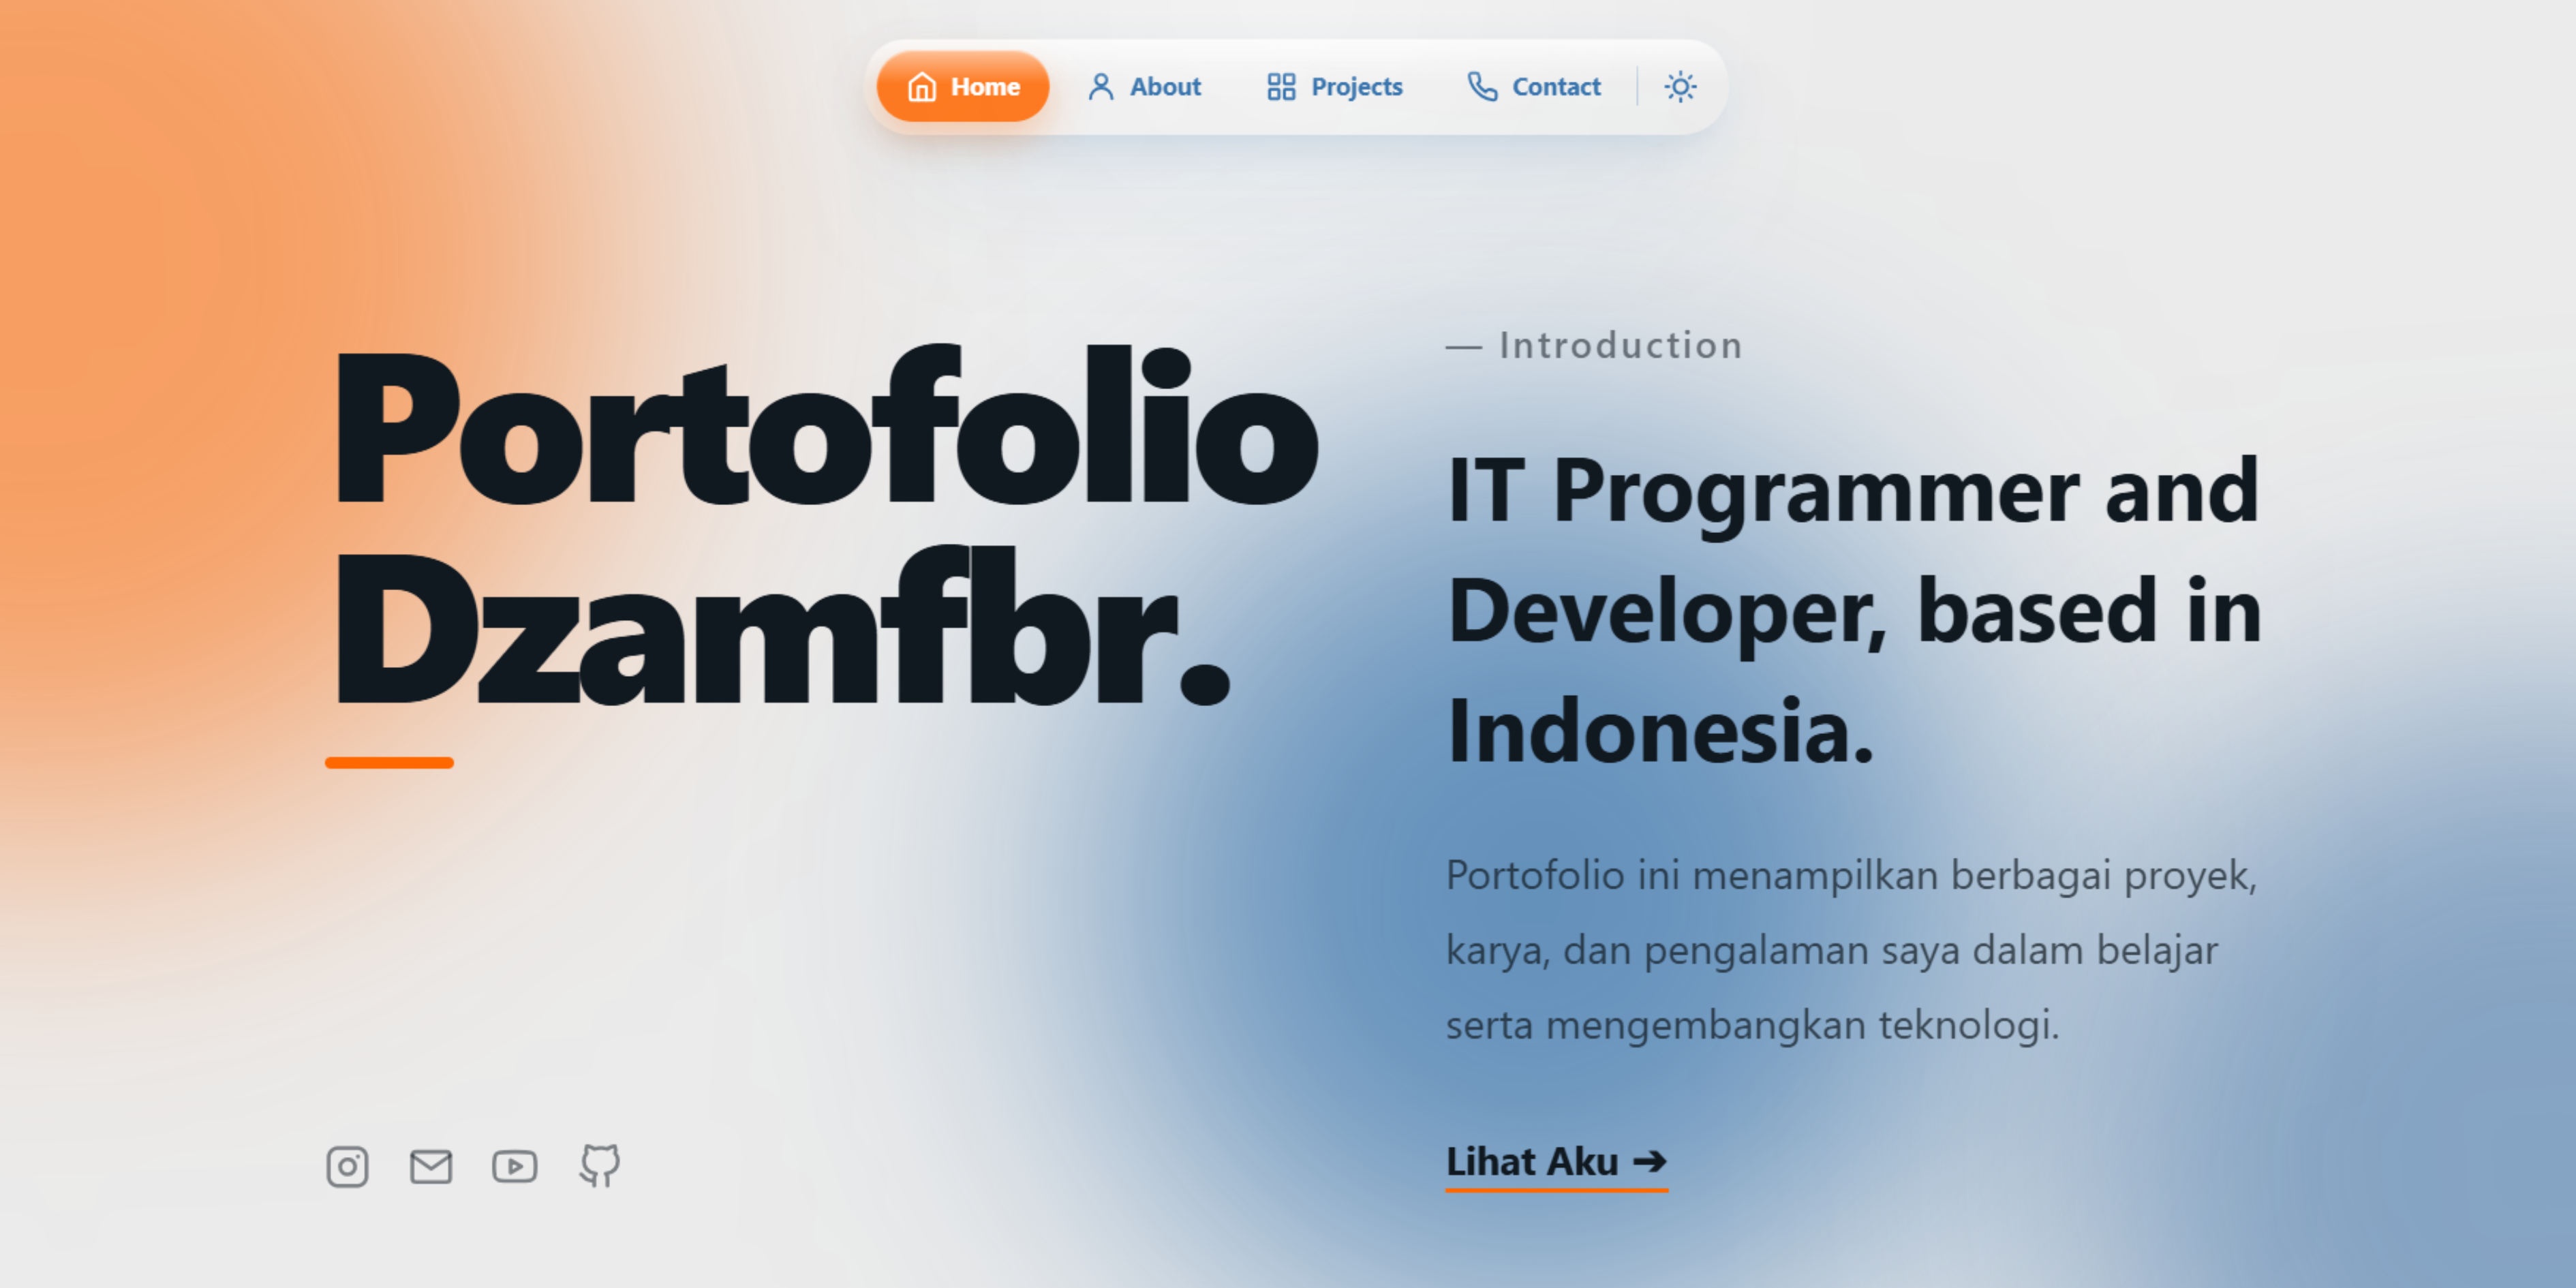
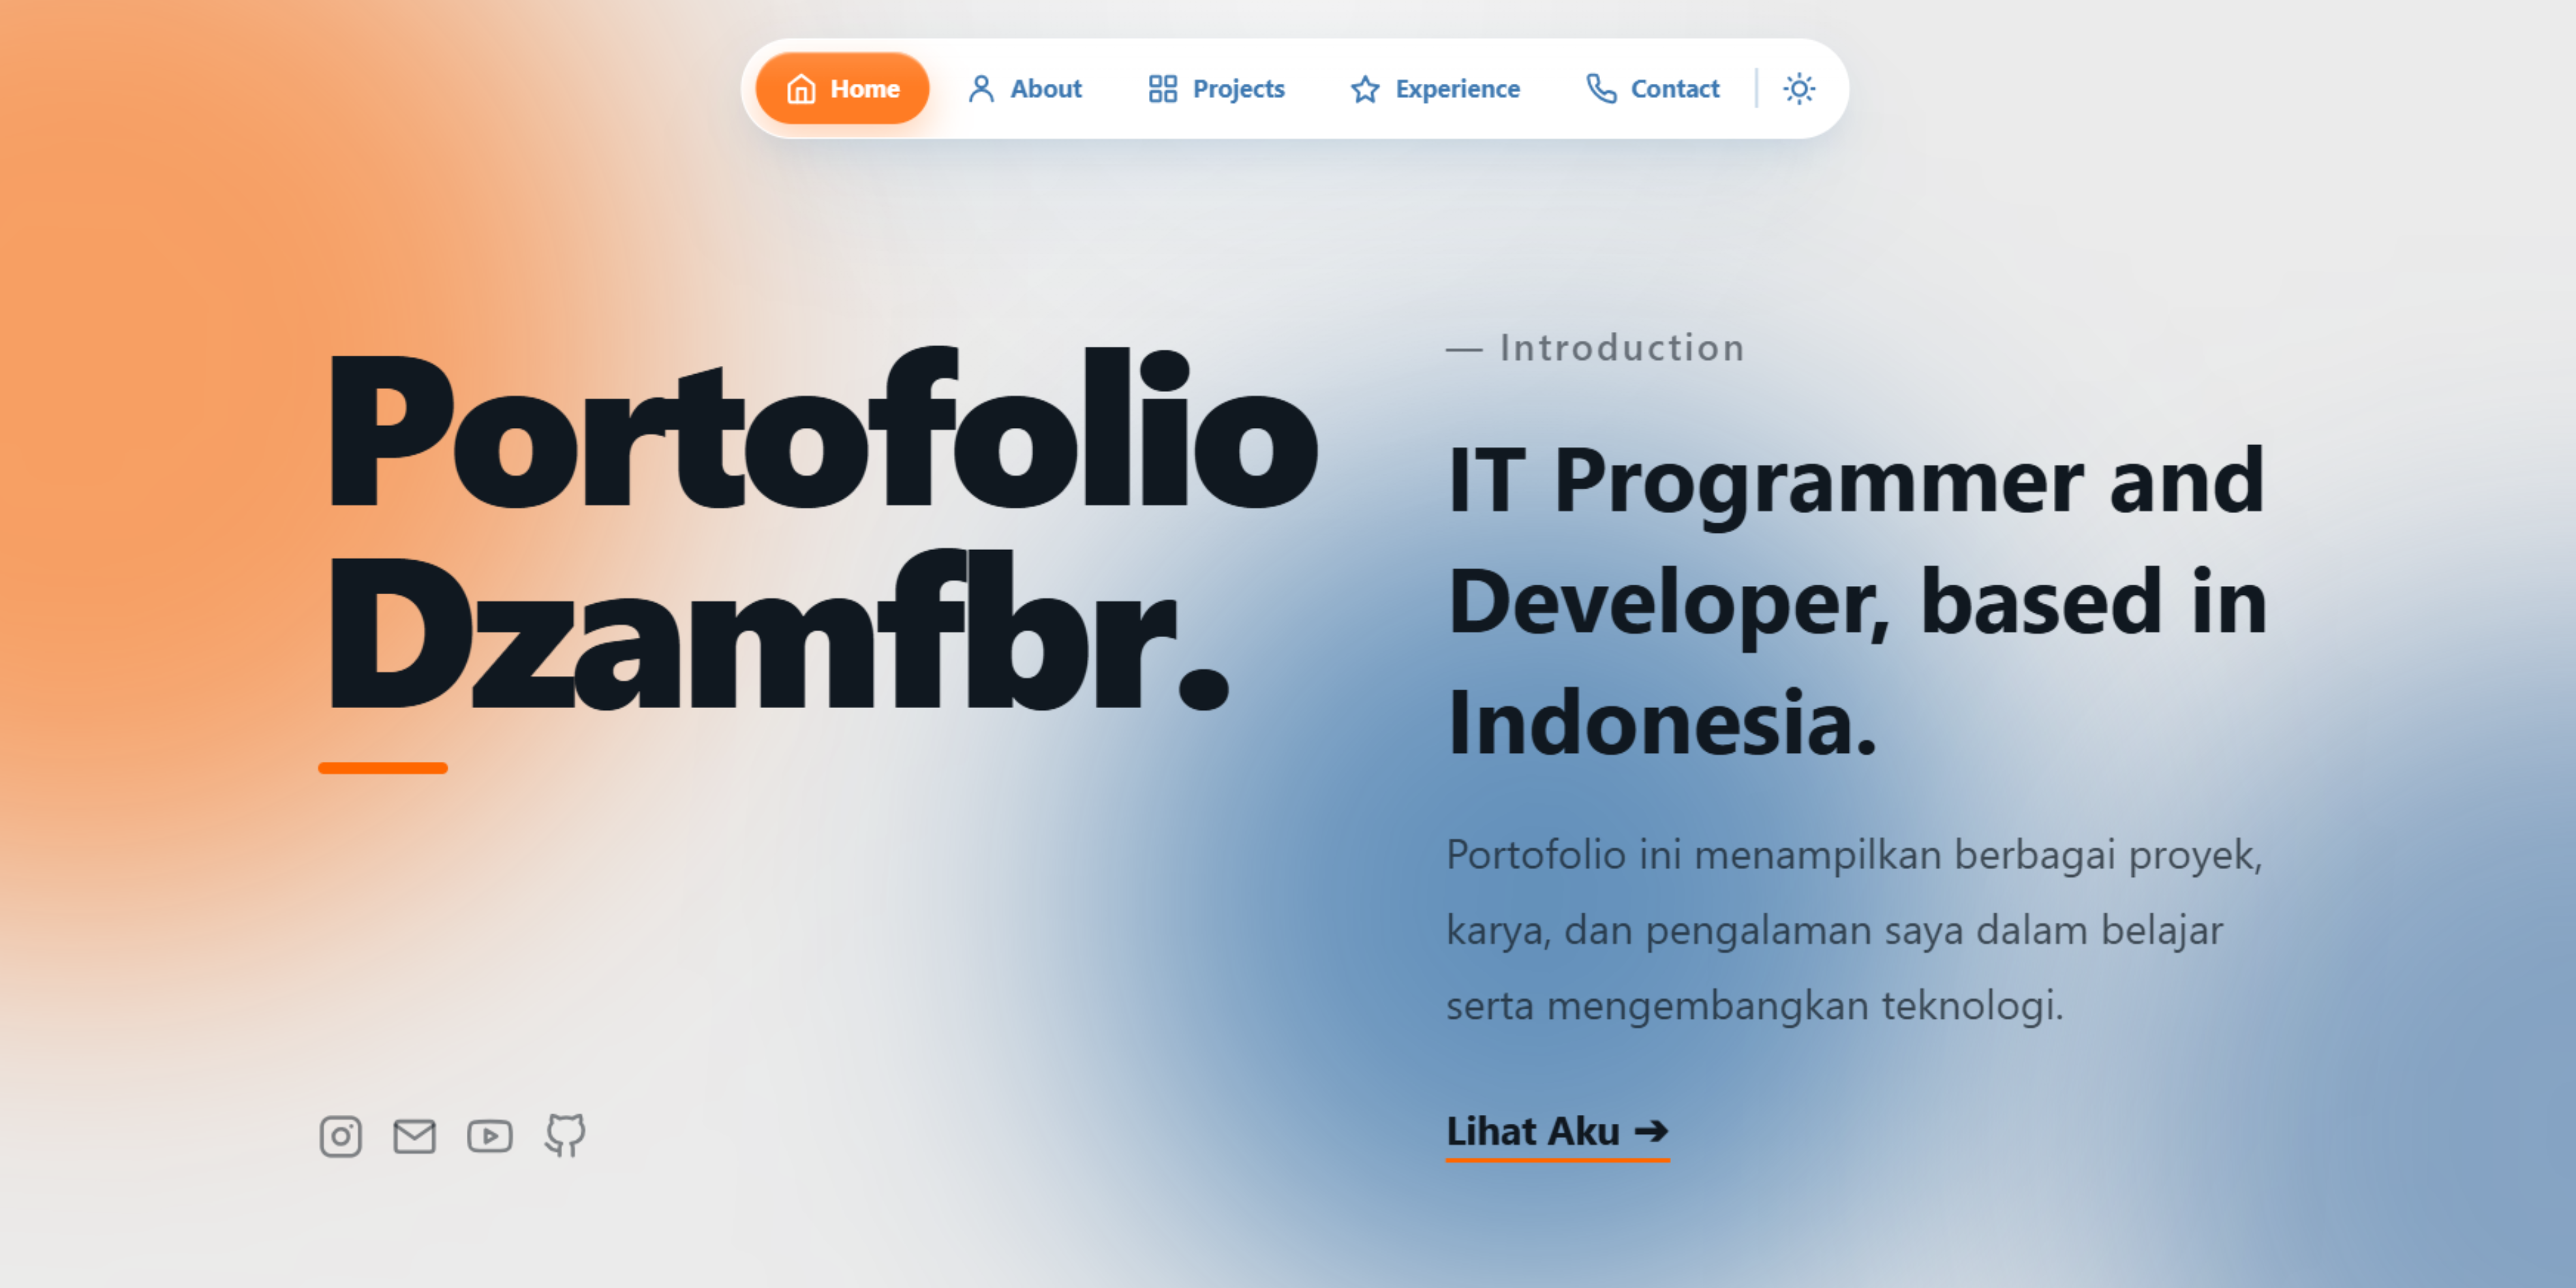
Update 0.1.3

diff --git a/app/globals.css b/app/globals.css
@@ -24,6 +24,8 @@
   --glass-shadow: rgba(0, 78, 152, 0.2);
   --glass-highlight: rgba(255, 255, 255, 0.82);
   --glass-caustic: rgba(192, 192, 192, 0.34);
+  --navbar-bg: #ffffff;
+  --navbar-border: rgba(255, 255, 255, 0.82);
   --reflection-start: rgba(255, 255, 255, 0.7);
   --reflection-end: rgba(255, 255, 255, 0);
   --glare-color: rgba(255, 255, 255, 0.58);
@@ -57,6 +59,8 @@
   --glass-shadow: rgba(0, 0, 0, 0.72);
   --glass-highlight: rgba(255, 255, 255, 0.26);
   --glass-caustic: rgba(255, 255, 255, 0.08);
+  --navbar-bg: #061827;
+  --navbar-border: rgba(255, 255, 255, 0.16);
   --reflection-start: rgba(255, 255, 255, 0.16);
   --reflection-end: rgba(255, 255, 255, 0);
   --glare-color: rgba(235, 235, 235, 0.18);
@@ -186,18 +190,22 @@ a {
   align-items: center;
   max-width: calc(100vw - 32px);
   padding: 8px;
+  border: 1px solid var(--navbar-border);
   border-radius: 99px;
-  background: transparent;
+  background-color: var(--navbar-bg);
+  background-image: none;
   box-shadow:
     0 40px 80px -20px var(--glass-shadow),
     0 10px 30px -10px var(--glass-shadow);
   transform: translateX(-50%);
   transition:
-    background 0.5s ease,
+    background-color 0.5s ease,
     box-shadow 0.5s ease,
-    backdrop-filter 0.3s ease;
-  backdrop-filter: blur(28px) saturate(220%);
-  -webkit-backdrop-filter: blur(28px) saturate(220%);
+    border-color 0.3s ease;
+  backdrop-filter: none;
+  -webkit-backdrop-filter: none;
+  overflow: hidden;
+  isolation: isolate;
 }
 
 .liquid-nav::before {
@@ -210,8 +218,8 @@ a {
   border-radius: 99px 99px 24px 24px / 99px 99px 12px 12px;
   background: linear-gradient(
     180deg,
-    var(--reflection-start) 0%,
-    var(--reflection-end) 100%
+    rgba(255, 255, 255, 0.16) 0%,
+    rgba(255, 255, 255, 0) 100%
   );
   content: "";
   pointer-events: none;

diff --git a/app/data/projects.ts b/app/data/projects.ts
@@ -13,7 +13,7 @@ export type Project = {
 export const personalProjects: Project[] = [
   {
     id: "personal-portfolio-01",
-    title: "Portfolio of Dzamfbr",
+    title: "Portfolio of Dzamfbrb",
     description:
       "Website portofolio pribadi yang menampilkan profil, keterampilan, dan berbagai proyek yang telah saya kerjakan dengan desain modern, responsif, dan interaktif.",
     image: "/screenshoot_portofolio_web_dzamfbr.png",